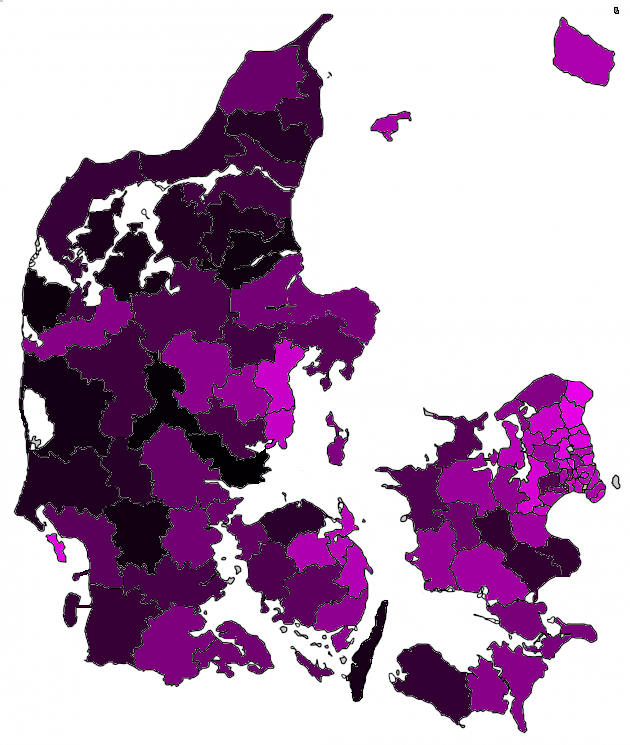
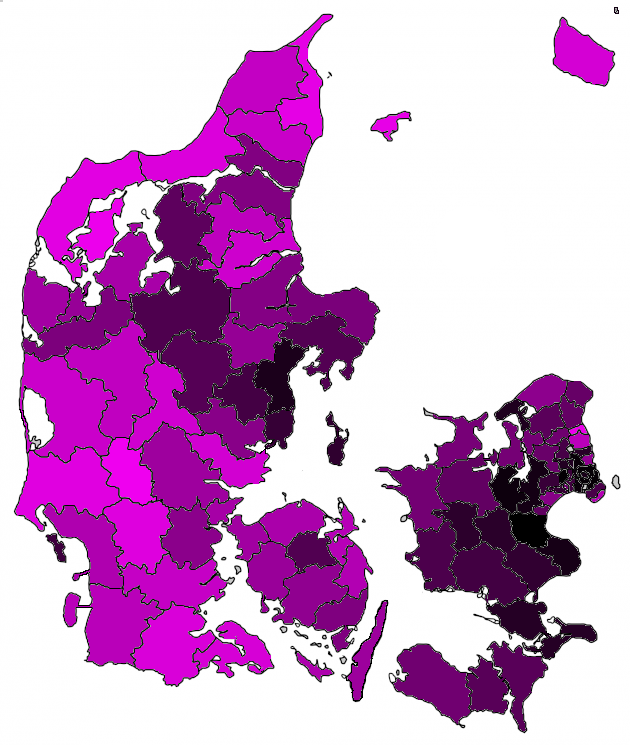
Added zoom to county map

diff --git a/webservice/templates/index.html b/webservice/templates/index.html
@@ -42,7 +42,13 @@
     }
 
 
-
+    .grid-item img {
+ transform-origin: 85% 70%;
+  transition: transform 1s, filter .5s ease-out;
+    }
+    .grid-item img:hover {
+        transform: scale(2.5);
+    }
 </style>
 
 <div class="grid-container">

diff --git a/webservice/app.py b/webservice/app.py
@@ -1,3 +1,7 @@
+""" Expose a web-service allowing a user to search the counties
+of Denmark based on criterias such as parlamentary votes, demographics and more.
+"""
+
 import cv2
 import math
 import json
@@ -9,15 +13,20 @@ from flask import Flask, render_template, request
 
 app = Flask(__name__)
 
-
+# Initialize Global Scope Variables
 original_map: Final[numpy.ndarray] = cv2.imread("map.png")
 data: Final[Dict[str, Dict[str, Any]]] = json.load(open("data.json", "r"))
 number_of_counties: Final[int] = len(data.keys())
+criteria_metadata_dict: Dict[str, Tuple[int, int, int]] = dict()
 
 
 def floodfill(
     img: numpy.ndarray, coords: Tuple[int, int], col: Tuple[int, int, int]
 ) -> numpy.ndarray:
+    """ Fills in a region on the given image bounded by
+    the given color +- 35
+    """
+
     img_copy = img.copy()
     cv2.floodFill(
         img_copy,
@@ -31,6 +40,11 @@ def floodfill(
 
 
 def rgb(minimum, maximum, value) -> Tuple[int, int, int]:
+    """ Takes a given value and maps it to a range between
+    0 and 255 based on the minimum and maximum values
+    in its original range
+    """
+
     minimum, maximum = float(minimum), float(maximum)
     ratio = 2 * (value - minimum) / (maximum - minimum)
     b = 255 - int(max(0, 255 * (1 - ratio)))
@@ -41,13 +55,19 @@ def rgb(minimum, maximum, value) -> Tuple[int, int, int]:
 
 
 def get_normalized_difference(d, metadata=None) -> float:
+    """ Converts an absolute number into a normalized percentage
+    by using the minimum and maximum values in the dataset
+    found, for the given key the absolute value represents
+    """
+
     return ((d - metadata["minv"]) * 100) / (metadata["maxv"] - metadata["minv"])
 
 
-criteria_metadata_dict = {}
-
-
 def get_criteria_metadata(criteria: str) -> Dict[str, float]:
+    """ Returns the total, minimal and maximal value of a criteria
+    found in the dataset, for any county. This is used to convert
+    absolute values into percentages for normalized difference calculations
+    """
 
     if criteria in criteria_metadata_dict:
         return criteria_metadata_dict[criteria]
@@ -58,17 +78,22 @@ def get_criteria_metadata(criteria: str) -> Dict[str, float]:
 
     for e, v in data.items():
         total += v[criteria]
-        if v[criteria] < minv: minv = v[criteria]
-        if v[criteria] > maxv: maxv = v[criteria]
+        if v[criteria] < minv:
+            minv = v[criteria]
+        if v[criteria] > maxv:
+            maxv = v[criteria]
 
     criteria_metadata_dict[criteria] = {"total": total, "minv": minv, "maxv": maxv}
     return criteria_metadata_dict[criteria]
 
 
 def search_for_criterias(query) -> List[Dict]:
-    """ """
+    """ Given a search query, return a sorted list
+    of counties ordered by how well they fulfill
+    the given search criteria
+    """
 
-    new_data = data
+    data_copy = data
 
     # County, County data
     for key, value in data.items():
@@ -83,30 +108,49 @@ def search_for_criterias(query) -> List[Dict]:
                 for i in criteria["key"]:
 
                     # Ensure that the current depth of the criteria exists
-                    if i not in reference: raise Exception("fdsdfds:")
+                    if i not in reference:
+                        raise Exception("fdsdfds:")
                     reference = reference[i]
 
+                # If the given criteria is formatted as a percentage
+                # in the dataset, it is already normalized
                 diff = reference["percent"]
 
             else:
+
+                # If the value for the criteria in the dataset
+                # is an absolute value, we need to normalize it using
+                # the minimal and maximal values for that criteria
+                # found in the entire dataset
                 metadata = get_criteria_metadata(criteria["key"])
                 diff = get_normalized_difference(value[criteria["key"]], metadata)
 
-            if criteria["priority"]: diff *= criteria["priority"]
-            if criteria["invert"]: diff *= -1
+            # Apply search modifiers
+            if criteria["priority"]:
+                diff *= criteria["priority"]
+            if criteria["invert"]:
+                diff *= -1
+
             county_total_diff += diff
 
-        new_data[key]["diff"] = county_total_diff
+        data_copy[key]["diff"] = county_total_diff
 
     sorted_data = dict(
-        sorted(new_data.items(), key=lambda item: item[1]["diff"], reverse=True)
+        # Sort the counties based on this difference, lowest difference becomes the first element
+        sorted(data_copy.items(), key=lambda item: item[1]["diff"], reverse=True)
     )
     return sorted_data
 
 
 def get_possible_criterias():
-    
-    criterias = []
+    """ Recursively walks down
+    each possible node in the dataset,
+    return a complete set of all
+    searchable criterias
+    """
+
+    criterias: List[str] = list()
+
     def inner(reference):
         if type(reference) != dict:
             return
@@ -119,69 +163,93 @@ def get_possible_criterias():
     reference = data[list(data.keys())[0]]
     for key in reference.keys():
         inner(reference[key])
-    
 
     return criterias
 
-crits = get_possible_criterias()
-    
 
+possible_criterias: Final[List[str]] = get_possible_criterias()
+
+# This is clearly a hacky solution
+# as we'd love to have a generic function
+# instead, but this is primarily limited
+# by our very primitive web-service
+# solution, so this is a compromise
+# for the MVP
 def hardcoded_criteria_filler(crit):
-            
+    """ Converts a given criteria into a
+    list of keys in order of the respective
+    level of nested needed to arrive at the
+    given criteria """
 
     if crit in ["maend", "kvinder"]:
         return ["koensfordeling", crit]
 
-    if crit in ["ingen uddannelse", "grundskole", "gymnasiel uddannelse", "erhvervsfaglig uddannelse", "bachelor uddannelse", "lange videregående uddannelser"]:
+    if crit in [
+        "ingen uddannelse",
+        "grundskole",
+        "gymnasiel uddannelse",
+        "erhvervsfaglig uddannelse",
+        "bachelor uddannelse",
+        "lange videregående uddannelser",
+    ]:
         return ["uddannelsesniveau", crit]
 
     if crit in ["ejere", "lejere"]:
         return ["ratioejerelejere", crit]
 
-    if crit in ["A. Socialdemokratiet", "B. Radikale Venstre", "C. Det Konservative Folkeparti", "D. Nye Borgerlige", "E. Klaus Riskær Pedersen", "F. SF - Socialistisk Folkeparti", "I. Liberal Alliance", "K. Kristendemokraterne", "O. Dansk Folkeparti", "P. Stram Kurs", "V. Venstre, Danmarks Liberale Parti", "Ø. Enhedslisten - De Rød-Grønne", "Å. Alternativet"]:
+    if crit in [
+        "A. Socialdemokratiet",
+        "B. Radikale Venstre",
+        "C. Det Konservative Folkeparti",
+        "D. Nye Borgerlige",
+        "E. Klaus Riskær Pedersen",
+        "F. SF - Socialistisk Folkeparti",
+        "I. Liberal Alliance",
+        "K. Kristendemokraterne",
+        "O. Dansk Folkeparti",
+        "P. Stram Kurs",
+        "V. Venstre, Danmarks Liberale Parti",
+        "Ø. Enhedslisten - De Rød-Grønne",
+        "Å. Alternativet",
+    ]:
         return ["folketingsvalg", crit]
+
 
 # No caching at all for API endpoints.
 @app.after_request
 def add_header(response):
     # response.cache_control.no_store = True
-    response.headers['Cache-Control'] = 'no-store, no-cache, must-revalidate, post-check=0, pre-check=0, max-age=0'
-    response.headers['Pragma'] = 'no-cache'
-    response.headers['Expires'] = '-1'
-    return response 
+    response.headers[
+        "Cache-Control"
+    ] = "no-store, no-cache, must-revalidate, post-check=0, pre-check=0, max-age=0"
+    response.headers["Pragma"] = "no-cache"
+    response.headers["Expires"] = "-1"
+    return response
+
 
 @app.route("/", methods=["GET", "POST"])
 def index():
 
-
     criterias = []
-    for crit in crits:
+    for crit in possible_criterias:
         if request.form.get(crit) != None:
-            criterias.append({
-                "key": hardcoded_criteria_filler(crit),
-                "invert": request.form.get(f"{crit}-invert") != None,
-                "priority": int(request.form[f"{crit}-slider"]) / 100 
-
-            })
-
+            criterias.append(
+                {
+                    "key": hardcoded_criteria_filler(crit),
+                    "invert": request.form.get(f"{crit}-invert") != None,
+                    "priority": int(request.form[f"{crit}-slider"]) / 100,
+                }
+            )
 
     new_image = original_map.copy()
-
     query = {"criterias": criterias}
-    print(query)
-
-
-
     sorted_dict = search_for_criterias(query)
-
     new_image = original_map.copy()
-
-
-    get_possible_criterias()
 
     for enum, (key, value) in enumerate(sorted_dict.items()):
         new_image = floodfill(new_image, value["coordinates"], rgb(0, 210, enum))
 
-
     cv2.imwrite("./static/filled.png", new_image)
-    return render_template("index.html", counties=sorted_dict.keys(), criterias=crits)
+    return render_template(
+        "index.html", counties=sorted_dict.keys(), criterias=possible_criterias
+    )
